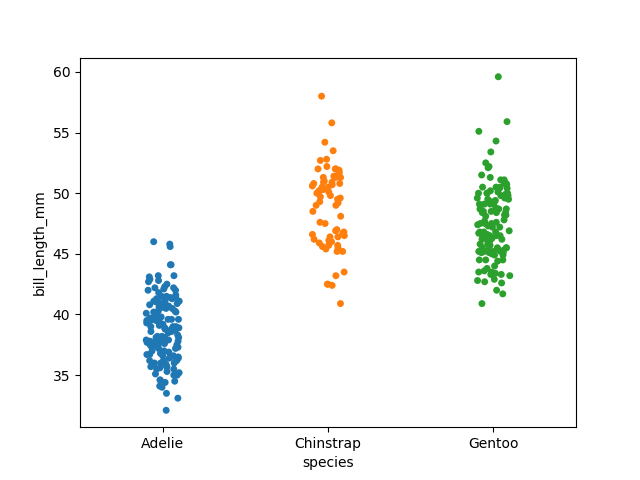
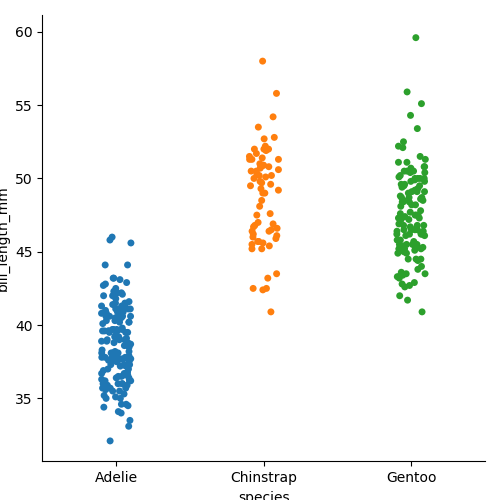
Add stripplot with no jitter

diff --git a/seaborn/categorical/stripplot.py b/seaborn/categorical/stripplot.py
@@ -3,6 +3,8 @@ import seaborn as sns
 
 penguins = sns.load_dataset('penguins')
 
-sns.stripplot(data=penguins, x="species", y="bill_length_mm")
+sns.catplot(data=penguins, x="species", y="bill_length_mm")
+
+sns.catplot(data=penguins, x="species", y="bill_length_mm", jitter=False)
 
 plt.show()
